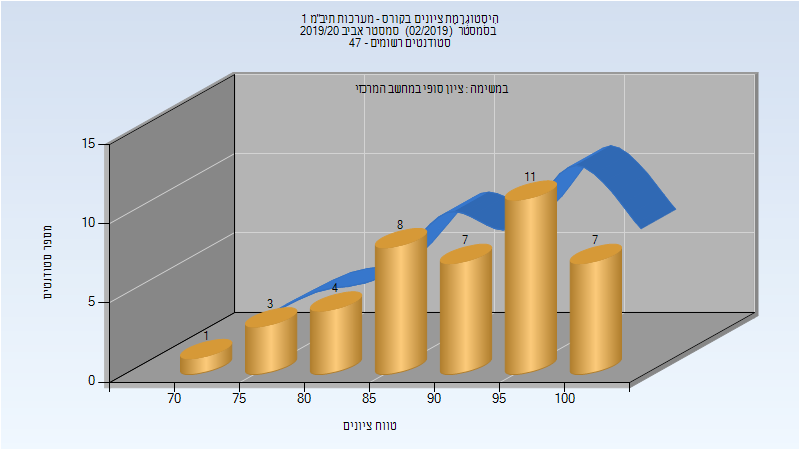
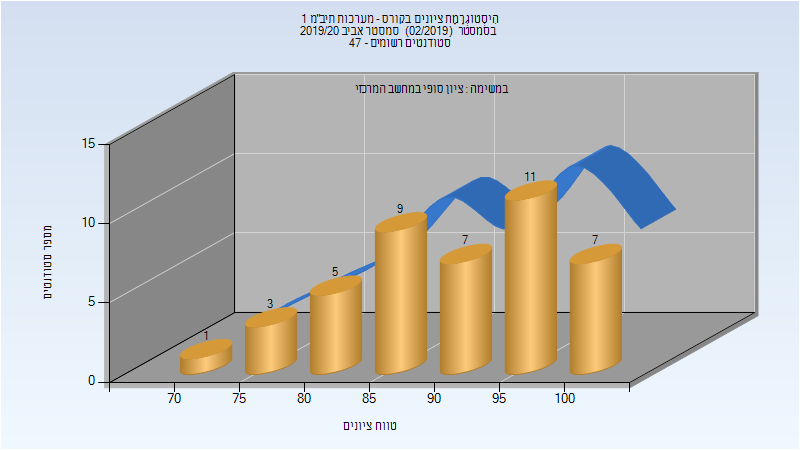
Deploy michael-maltsev/technion-histograms to github.com/michael-maltsev/technion-histograms.git:gh-pages

Changed region(s): [[0.4688, 0.3733, 0.6562, 0.56], [0.375, 0.5911, 0.4688, 0.6844]]

diff --git a/034039/index.html b/034039/index.html
@@ -549,5 +549,46 @@
 </tr>
 </tbody>
 </table>
+<h2>קיץ 2020</h2>
+<table>
+<thead>
+<tr>
+<th>איש סגל</th>
+<th>תפקיד</th>
+</tr>
+</thead>
+<tbody>
+<tr>
+<td>רוטשילד כרמל</td>
+<td>מדריך מעבדה - עם הרשאות מרצה אחראי</td>
+</tr>
+</tbody>
+</table>
+<h3>סופי</h3>
+<p><img src="201903/Finals.png" alt="201903 Finals" /></p>
+<table>
+<thead>
+<tr>
+<th>סטודנטים</th>
+<th>עברו/נכשלו</th>
+<th>אחוז עוברים</th>
+<th>ציון מינימלי</th>
+<th>ציון מקסימלי</th>
+<th>ממוצע</th>
+<th>חציון</th>
+</tr>
+</thead>
+<tbody>
+<tr>
+<td>45</td>
+<td>45/0</td>
+<td>100</td>
+<td>85</td>
+<td>98</td>
+<td>92.756</td>
+<td>94</td>
+</tr>
+</tbody>
+</table>
   </body>
 </html>

diff --git a/035003/index.html b/035003/index.html
@@ -303,13 +303,13 @@
 </thead>
 <tbody>
 <tr>
-<td>41</td>
-<td>41/0</td>
+<td>43</td>
+<td>43/0</td>
 <td>100</td>
 <td>70</td>
 <td>100</td>
-<td>91.439</td>
-<td>94</td>
+<td>91.093</td>
+<td>91</td>
 </tr>
 </tbody>
 </table>

diff --git a/035061/index.html b/035061/index.html
@@ -145,12 +145,12 @@
 </thead>
 <tbody>
 <tr>
-<td>68</td>
-<td>68/0</td>
+<td>69</td>
+<td>69/0</td>
 <td>100</td>
 <td>69</td>
 <td>100</td>
-<td>95.588</td>
+<td>95.522</td>
 <td>96</td>
 </tr>
 </tbody>

diff --git a/034039/README.md b/034039/README.md
@@ -172,3 +172,17 @@
 | ---- | ---- | ---- | ---- | ---- | ---- | ---- |
 | 49 | 49/0 | 100 | 76 | 97 | 91.551 | 92 |
 
+## קיץ 2020
+
+| איש סגל | תפקיד |
+| ---- | ---- |
+| רוטשילד כרמל | מדריך מעבדה - עם הרשאות מרצה אחראי |
+
+### סופי
+
+![201903 Finals](201903/Finals.png)
+
+| סטודנטים | עברו/נכשלו | אחוז עוברים | ציון מינימלי | ציון מקסימלי | ממוצע | חציון |
+| ---- | ---- | ---- | ---- | ---- | ---- | ---- |
+| 45 | 45/0 | 100 | 85 | 98 | 92.756 | 94 |
+

diff --git a/035003/README.md b/035003/README.md
@@ -93,5 +93,5 @@
 
 | סטודנטים | עברו/נכשלו | אחוז עוברים | ציון מינימלי | ציון מקסימלי | ממוצע | חציון |
 | ---- | ---- | ---- | ---- | ---- | ---- | ---- |
-| 41 | 41/0 | 100 | 70 | 100 | 91.439 | 94 |
+| 43 | 43/0 | 100 | 70 | 100 | 91.093 | 91 |
 

diff --git a/035061/README.md b/035061/README.md
@@ -42,5 +42,5 @@
 
 | סטודנטים | עברו/נכשלו | אחוז עוברים | ציון מינימלי | ציון מקסימלי | ממוצע | חציון |
 | ---- | ---- | ---- | ---- | ---- | ---- | ---- |
-| 68 | 68/0 | 100 | 69 | 100 | 95.588 | 96 |
+| 69 | 69/0 | 100 | 69 | 100 | 95.522 | 96 |
 
